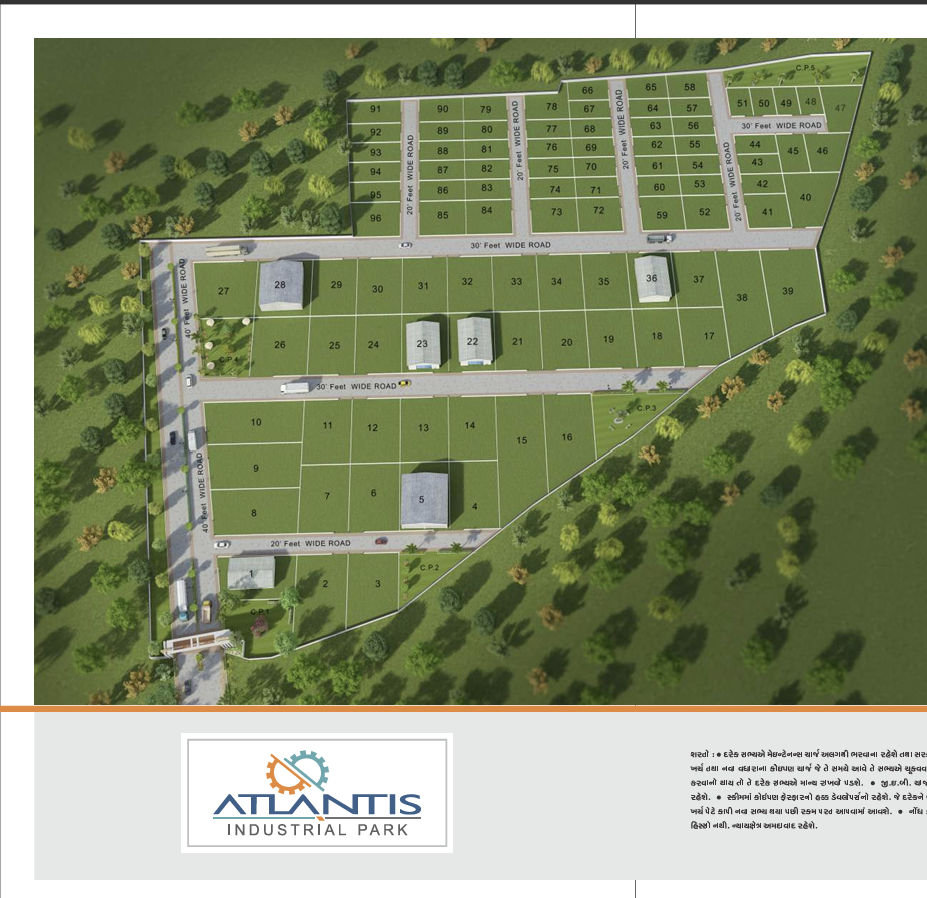
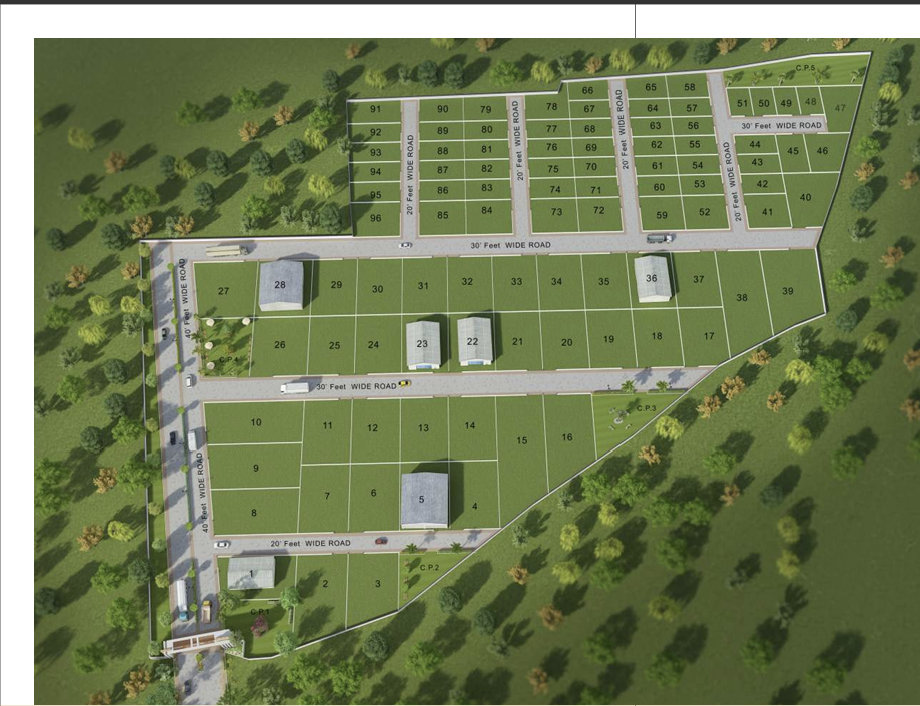
Fix cropped gallery images
Gallery grid used object-cover on a fixed 4:3 box, cropping any
image with a different aspect ratio (e.g. site/floor plans).
Switched to object-contain so the full image always shows.
Also re-cropped the industrial park aerial layout image, which
previously included a stray chunk of the brochure's logo panel.

diff --git a/app/projects/[slug]/page.tsx b/app/projects/[slug]/page.tsx
@@ -118,7 +118,7 @@ export default function ProjectDetail({ params }: { params: { slug: string } }) 
                   alt={img.alt}
                   fill
                   sizes="(max-width: 768px) 100vw, 50vw"
-                  className="object-cover"
+                  className="object-contain"
                 />
               </div>
             ))}
